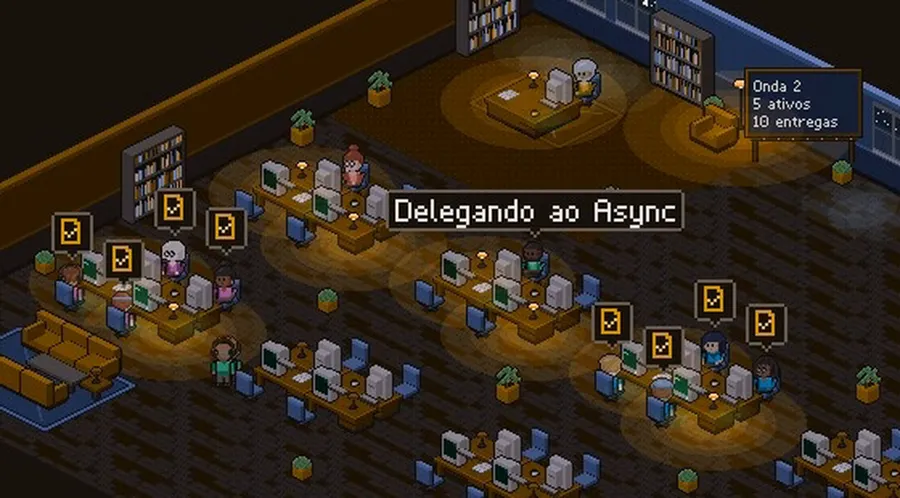
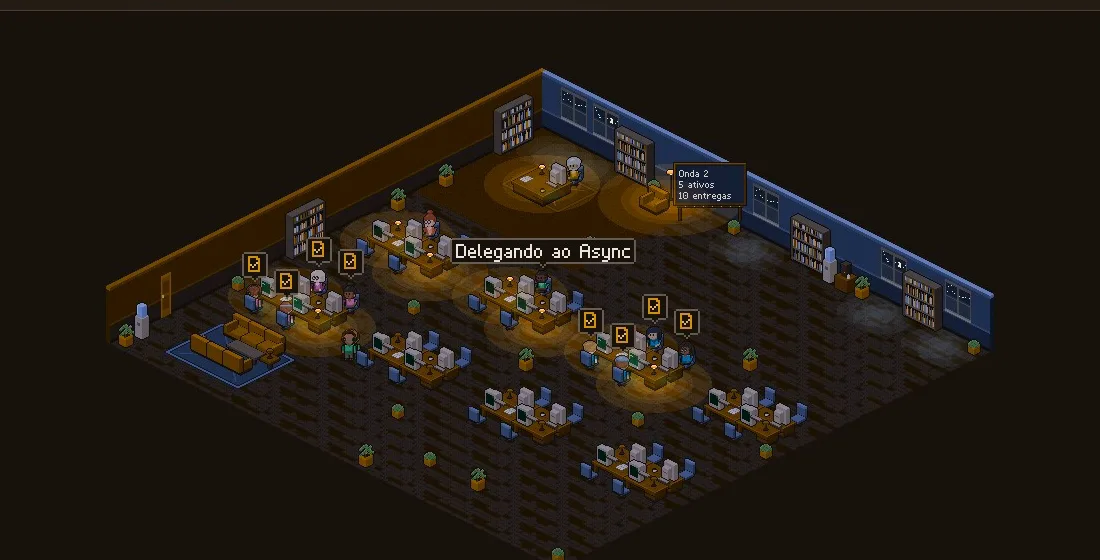
Add BitEnglish, drop repeated About photo, freelance availability
- New BitEnglish case study and card; Abajur becomes a wide featured card
- About section without the second photo panel, two-column layout
- "Available for" now lists freelance services (systems, AI, sites, automation)
- Mobile tech chips size to content instead of overflowing

diff --git a/app/globals.css b/app/globals.css
@@ -102,7 +102,7 @@ h1, h2, h3, h4 { font-weight: 700; }
 .topbar.scrolled { background: rgba(255, 255, 255, 0.9); backdrop-filter: blur(16px); color: var(--ink); box-shadow: 0 1px 0 var(--line); }
 .brand { display: inline-flex; align-items: center; gap: 10px; font-family: var(--font-display), sans-serif; font-weight: 800; font-size: 17px; letter-spacing: 0.01em; }
 .brand-chevron { font-size: 22px; opacity: 0.7; }
-.brand i, .about-brand i { width: 8px; height: 8px; border-radius: 50%; background: var(--purple-2); }
+.brand i { width: 8px; height: 8px; border-radius: 50%; background: var(--purple-2); }
 .topbar nav { display: flex; gap: clamp(24px, 3.4vw, 58px); }
 .topbar nav a { position: relative; font-size: 17px; font-weight: 500; opacity: 0.82; transition: opacity 0.2s; }
 .topbar nav a:hover, .topbar nav a.active { opacity: 1; }
@@ -171,23 +171,10 @@ h1, h2, h3, h4 { font-weight: 700; }
 .hero-tech svg { width: 34px; height: 34px; }
 
 /* ---------- About ---------- */
-.about { display: grid; grid-template-columns: 1fr 1fr; min-height: 100vh; background: var(--cream); }
-.about-visual { position: relative; overflow: hidden; background: var(--night); color: #fff; min-height: 760px; margin-right: -3vw; z-index: 1; clip-path: polygon(0 0, 100% 0, 92% 100%, 0 100%); }
-.about-visual > img { position: absolute; inset: 0; width: 100%; height: 100%; object-fit: cover; object-position: 62% 30%; filter: grayscale(1) brightness(0.72) contrast(1.12); }
-.about-visual:after { content: ""; position: absolute; inset: 0; background: linear-gradient(180deg, rgba(7, 6, 12, 0.55), transparent 30%, transparent 55%, rgba(7, 6, 12, 0.92)); }
-.about-visual > * { z-index: 1; }
-.about-brand { position: absolute; top: 56px; left: 7%; display: flex; align-items: center; gap: 10px; font-family: var(--font-display), sans-serif; font-weight: 800; font-size: 17px; }
-.hand-about-world { left: 13%; top: 11%; font-size: 26px; transform: rotate(-8deg); }
-.hand-about-transform { right: 7%; top: 21%; font-size: 22px; transform: rotate(-12deg); }
-.arrow-about { right: 33%; top: 25%; width: 58px; color: #fff; transform: scaleX(-1) rotate(-6deg); }
-.about-visual .books { left: -16px; bottom: 22%; }
-.about-visual .laptop { right: 13%; bottom: 21%; width: 33%; }
-.mug { position: absolute; left: 39%; bottom: 20%; width: 15%; aspect-ratio: 0.82; border-radius: 6px 6px 14px 14px; background: linear-gradient(90deg, #08080b, #1d1c22 45%, #0b0b0f); box-shadow: 0 18px 30px rgba(0, 0, 0, 0.6), inset 0 2px 0 rgba(255, 255, 255, 0.08); }
-.mug:before { content: ""; position: absolute; left: 0; right: 0; top: -6px; height: 12px; border-radius: 50%; background: #2a2930; border: 2px solid #111; }
-.mug-handle { position: absolute; left: -26%; top: 22%; width: 34%; height: 46%; border: 7px solid #121116; border-right: 0; border-radius: 40% 0 0 40%; }
-.mug-text { position: absolute; inset: 22% 8% 10%; display: flex; flex-direction: column; align-items: center; justify-content: center; font-family: var(--font-hand), cursive; font-size: clamp(12px, 1.05vw, 17px); line-height: 1.15; letter-spacing: 0.05em; color: #e8e6ee; text-align: center; }
-.about-visual .stat-strip { position: absolute; left: 4%; right: 12%; bottom: 4%; }
-.about-content { position: relative; background: var(--cream); padding: 56px 4vw 56px 6vw; }
+.about { background: var(--cream); }
+.about-content { display: grid; grid-template-columns: minmax(0, 1fr) minmax(0, 1fr); gap: 5vw; align-items: start; padding: 110px 5vw 100px; }
+.about-stack { padding-top: 64px; }
+.about-stack .stack-title { margin-top: 14px; }
 .about-content .display { font-size: clamp(38px, 3.4vw, 58px); }
 .value-cards { display: grid; grid-template-columns: repeat(3, minmax(0, 1fr)); gap: 16px; margin: 28px 0 26px; }
 .value-card { padding: 20px 18px; border-radius: 16px; background: #fff; border: 1px solid #efe9e0; box-shadow: var(--shadow); }
@@ -257,7 +244,15 @@ h1, h2, h3, h4 { font-weight: 700; }
 .filters button { padding: 12px 24px; border: 1px solid var(--line); border-radius: 999px; background: #fff; font-size: 15px; font-weight: 500; cursor: pointer; transition: 0.2s; }
 .filters button:hover { border-color: #c9c3e6; }
 .filters button.active { background: var(--ink); border-color: var(--ink); color: #fff; }
-.project-grid { display: grid; grid-template-columns: repeat(4, minmax(0, 1fr)); gap: 20px; }
+.project-grid { display: grid; grid-template-columns: repeat(3, minmax(0, 1fr)); gap: 20px; }
+.project-grid .card-abajur:first-child { grid-column: span 2; flex-direction: row; }
+.project-grid .card-abajur:first-child .project-art { flex: 0 0 54%; height: auto; min-height: 100%; }
+.project-grid .card-abajur:first-child .project-art > img { position: absolute; inset: 0; }
+.project-grid .card-abajur:first-child .project-body { padding: 30px 28px; justify-content: center; }
+.project-grid .card-abajur:first-child .project-actions { margin-top: 10px; }
+.project-grid .card-abajur:first-child .project-body h3 { font-size: 32px; }
+.card-bitenglish .project-art { background: #2a1f6b; }
+.card-bitenglish .project-number { padding: 4px 9px; border-radius: 8px; background: rgba(15, 14, 22, 0.75); text-shadow: none; font-size: 15px; }
 .project-card { display: flex; flex-direction: column; border: 1px solid var(--line); border-radius: var(--radius); background: #fff; overflow: hidden; box-shadow: var(--shadow); transition: transform 0.25s, box-shadow 0.25s; }
 .project-card:hover { transform: translateY(-6px); box-shadow: 0 24px 50px rgba(27, 20, 70, 0.1); }
 .project-art { position: relative; height: 230px; overflow: hidden; background: #111; }
@@ -398,6 +393,7 @@ footer a:hover { color: var(--purple); }
 @media (max-width: 1440px) {
   .project-grid { grid-template-columns: repeat(2, minmax(0, 1fr)); }
   .project-art { height: 260px; }
+  .project-grid .card-abajur:first-child { grid-column: 1 / -1; }
   .delivered-grid { grid-template-columns: repeat(2, minmax(0, 1fr)); }
 }
 @media (max-width: 1280px) {
@@ -421,15 +417,13 @@ footer a:hover { color: var(--purple); }
   .menu-button { display: grid; }
   .available { display: none; }
   .hero-deco > :not(.hand-ideas):not(.arrow-ideas) { display: none; }
-  .about-visual .laptop, .mug { display: none; }
-  .hand-ideas { left: auto; right: 6%; top: 16%; font-size: 24px; }
+    .hand-ideas { left: auto; right: 6%; top: 16%; font-size: 24px; }
   .arrow-ideas { display: none; }
   .hero-photo { right: -6%; width: 70%; }
   .hero-inner { max-width: none; padding-right: 5vw; }
-  .about { grid-template-columns: 1fr; }
-  .about-visual { margin-right: 0; clip-path: none; }
-  .about-visual { min-height: 720px; }
-  .career { grid-template-columns: 1fr; gap: 60px; }
+  .about-content { grid-template-columns: 1fr; gap: 20px; }
+  .about-stack { padding-top: 24px; border-top: 1px solid #e6dfd4; }
+    .career { grid-template-columns: 1fr; gap: 60px; }
   .projects-head { flex-direction: column; align-items: flex-start; }
   .projects-aside { align-items: flex-start; }
   .projects-hand { display: none; }
@@ -457,14 +451,8 @@ footer a:hover { color: var(--purple); }
   .stat-strip.dark .stat { padding: 0 20px; }
   .stat-strip.dark .stat:nth-child(3) { border-left: 0; }
   .hero-tech { gap: 18px 22px; }
-  .about-visual { min-height: 780px; }
-  .about-visual > img { object-position: 60% 12%; }
-  .about-brand { top: 32px; left: 20px; }
-  .hand-about-world { left: 20px; top: 84px; font-size: 20px; }
-  .stack-title i { display: none; }
-  .about-visual .books, .hand-about-transform, .arrow-about { display: none; }
-  .about-visual .stat-strip { position: absolute; }
-  .about-content, .career, .projects, .process, .contact { padding-left: 20px; padding-right: 20px; }
+          .stack-title i { display: none; }
+      .about-content, .career, .projects, .process, .contact { padding-left: 20px; padding-right: 20px; }
   .career, .projects, .process, .contact { padding-top: 90px; }
   .tech-chips { grid-template-columns: repeat(2, minmax(0, 1fr)); }
   .timeline:before { left: 7px; }
@@ -551,8 +539,8 @@ footer a:hover { color: var(--purple); }
   .stat-strip.light .stat-icon { grid-row: span 2; width: 40px; height: 40px; margin: 0; }
   .stat-strip.light strong { font-size: 26px; }
   .stat-strip.light .stat-label { font-size: 12.5px; }
-  .tech-chips { grid-template-columns: repeat(3, minmax(0, 1fr)); gap: 7px; }
-  .tech-chips li { padding: 9px 8px; gap: 7px; font-size: 12px; }
+  .tech-chips { display: flex; flex-wrap: wrap; gap: 8px; }
+  .tech-chips li { padding: 9px 12px; gap: 7px; font-size: 13px; }
   .tech-chips svg { width: 17px; height: 17px; }
   .career { gap: 44px; }
   .job-card { grid-template-columns: 52px minmax(0, 1fr); gap: 14px; }
@@ -566,6 +554,11 @@ footer a:hover { color: var(--purple); }
   .delivered-card strong { font-size: 34px; }
   .filters { -webkit-mask-image: linear-gradient(90deg, #000 85%, transparent); mask-image: linear-gradient(90deg, #000 85%, transparent); }
   .project-grid { gap: 16px; }
+  .project-grid .card-abajur:first-child { grid-column: auto; flex-direction: column; }
+  .project-grid .card-abajur:first-child .project-art { flex: none; height: 210px; min-height: 0; }
+  .project-grid .card-abajur:first-child .project-art > img { position: static; }
+  .project-grid .card-abajur:first-child .project-body { padding: 18px; }
+  .project-grid .card-abajur:first-child .project-body h3 { font-size: 24px; }
   .project-art { height: 210px; }
   .project-body { padding: 18px; }
   .project-body h3 { font-size: 24px; }

diff --git a/app/content.ts b/app/content.ts
@@ -289,6 +289,53 @@ export const caseStudies: Record<Language, CaseStudy[]> = {
         "Abordagem 1:1 pelo WhatsApp, sem disparo em massa.",
       ],
     },
+    {
+      id: "bitenglish",
+      number: "05",
+      title: "BitEnglish",
+      owner: "PROJETO PRÓPRIO",
+      category: "EDTECH · PWA",
+      description: "PWA gratuito e mobile-first para adultos aprenderem vocabulário de inglês com mini-jogos em pixel art, XP, sequência de dias, rankings e chat entre alunos.",
+      result: "12 mini-jogos em pixel art · ~600 palavras do A1 ao B1 · ranking de turmas",
+      tags: ["Next.js", "Supabase", "PostgreSQL", "PWA", "Tailwind CSS"],
+      modalTitle: "BitEnglish — inglês um bit por dia",
+      modalCategory: "05 / PROJETO PRÓPRIO / EDTECH",
+      summary: "Um PWA gratuito para aprender vocabulário de inglês \"um bit por dia\": mini-jogos curtos em pixel art, XP, sequência de dias, conquistas, ranking de pessoas e turmas e um chat em inglês entre os alunos.",
+      media: {
+        kind: "image",
+        src: "/cases/bitenglish-telas.webp",
+        alt: "Telas do BitEnglish: início, jogo da memória, ranking de turmas e gestão de turmas",
+        caption: "Início, jogo da memória, ranking de turmas e gestão de turmas, com a identidade em pixel art do próprio app.",
+      },
+      challenge: [
+        "Apps de vocabulário parecem lição de casa, e a maioria dos adultos desiste nas primeiras semanas.",
+        "Professores não tinham um jeito simples de juntar alunos em turmas e acompanhar o progresso.",
+        "Ferramentas com jogos e ranking costumam ser pagas ou cheias de anúncios.",
+      ],
+      solution: "Construí um único app Next.js full-stack hospedado na Vercel, com o Supabase cuidando de banco, autenticação e tempo real. Cada etapa da trilha do A1 ao B1 é jogada por mini-jogos com as palavras dela, e a revisão espaçada traz de volta as que o aluno errou. Os alunos entram em turmas, disputam o ranking da semana e praticam num chat moderado. O dono administra pessoas, turmas, conteúdo e moderação numa área admin dentro do próprio app. Toda a identidade visual (logo, mascote, ícones, conquistas e animações) foi desenhada em pixel art para o projeto.",
+      stack: [
+        ["App", "Next.js (App Router) · React · TypeScript · Tailwind CSS · PWA"],
+        ["Dados e auth", "Supabase · PostgreSQL com RLS · Auth · Realtime"],
+        ["Conteúdo e IA", "~600 palavras do A1 ao B1 geradas com IA · tutor com Claude atrás de flag"],
+        ["Qualidade e infra", "Vercel · Vitest · Playwright · stack de custo zero"],
+      ],
+      modules: [
+        ["12 mini-jogos", "Memória, caça-palavras, forca, palavras cruzadas e mais 8, todos com as palavras de cada etapa."],
+        ["Trilha e revisão", "Níveis divididos em etapas, meta diária e revisão espaçada das palavras erradas."],
+        ["Gamificação", "XP, sequência de dias, conquistas e ranking semanal de pessoas e turmas."],
+        ["Turmas e admin", "Área do professor para criar turmas, acompanhar alunos, gerenciar conteúdo e moderar o chat."],
+      ],
+      role: [
+        "Produto, arquitetura e desenvolvimento full stack.",
+        "Modelagem com segurança por linha (RLS) no Supabase.",
+        "Identidade em pixel art: logo, mascote, 64 ícones, conquistas e emblemas de turma.",
+      ],
+      impact: [
+        "Aprender vira jogo, em sessões de poucos minutos por dia.",
+        "As turmas competem entre si, o que faz os alunos voltarem.",
+        "Gratuito para os alunos, rodando numa infraestrutura de custo zero.",
+      ],
+    },
   ],
   en: [
     {
@@ -472,6 +519,53 @@ export const caseStudies: Record<Language, CaseStudy[]> = {
         "A list of scored leads with valid contacts in minutes instead of hours.",
         "First message and proposal written by AI and reviewed before sending.",
         "One-to-one outreach on WhatsApp, no mass messaging.",
+      ],
+    },
+    {
+      id: "bitenglish",
+      number: "05",
+      title: "BitEnglish",
+      owner: "PERSONAL PROJECT",
+      category: "EDTECH · PWA",
+      description: "Free, mobile-first PWA for Brazilian adults to learn English vocabulary through pixel art mini-games, with XP, streaks, rankings and a student chat.",
+      result: "12 pixel art mini-games · ~600 words A1→B1 · class rankings",
+      tags: ["Next.js", "Supabase", "PostgreSQL", "PWA", "Tailwind CSS"],
+      modalTitle: "BitEnglish — English one bit a day",
+      modalCategory: "05 / PERSONAL PROJECT / EDTECH",
+      summary: "A free PWA to learn English vocabulary \"one bit a day\": short pixel art mini-games, XP, streaks, achievements, rankings for students and classes, and a chat in English between learners.",
+      media: {
+        kind: "image",
+        src: "/cases/bitenglish-telas.webp",
+        alt: "BitEnglish screens: home, memory game, class ranking and class admin",
+        caption: "Home, memory game, class ranking and class admin, all in the app's own pixel art identity.",
+      },
+      challenge: [
+        "Vocabulary apps feel like homework, and most adult learners quit in the first weeks.",
+        "Teachers had no simple way to group students into classes and follow their progress.",
+        "Learning tools with games and rankings are usually paid or full of ads.",
+      ],
+      solution: "I built a single full-stack Next.js app hosted on Vercel with Supabase for the database, authentication and realtime. Each stage of the A1→B1 track is played through mini-games about its words, and spaced review brings back the ones the learner got wrong. Students join classes, compete in weekly rankings and practice in a moderated chat. The owner manages people, classes, content and moderation in an admin area inside the same app. The whole visual identity — logo, mascot, icons, achievements and animations — was designed in pixel art for the project.",
+      stack: [
+        ["App", "Next.js (App Router) · React · TypeScript · Tailwind CSS · PWA"],
+        ["Data & auth", "Supabase · PostgreSQL with RLS · Auth · Realtime"],
+        ["Content & AI", "~600 words A1→B1 generated with AI · Claude tutor behind a feature flag"],
+        ["Quality & infra", "Vercel · Vitest · Playwright · zero-cost stack"],
+      ],
+      modules: [
+        ["12 mini-games", "Memory, word search, hangman, crossword and 8 more, all built on each stage's words."],
+        ["Track and review", "Levels split into stages, daily goal and spaced review of missed words."],
+        ["Gamification", "XP, daily streak, achievements and weekly rankings for people and classes."],
+        ["Classes and admin", "Teacher area to create classes, follow students, manage content and moderate the chat."],
+      ],
+      role: [
+        "Product, architecture and full stack development.",
+        "Data model with row-level security in Supabase.",
+        "Pixel art identity: logo, mascot, 64 icons, achievements and class badges.",
+      ],
+      impact: [
+        "Learning that feels like a game, in sessions of a few minutes a day.",
+        "Classes compete with each other, which keeps students coming back.",
+        "Free for learners, running on a zero-cost infrastructure.",
       ],
     },
   ],

diff --git a/app/copy.ts b/app/copy.ts
@@ -38,7 +38,6 @@ export const text = {
     techIUse: "TECNOLOGIAS QUE USO",
     handIdeas: ["IDEIAS", "CÓDIGO", "IMPACTO", "PESSOAS"],
     handWorld: ["TECNOLOGIA", "PARA UM", "MUNDO", "MELHOR."],
-    handTransform: ["TRANSFORMANDO", "IDEIAS EM", "IMPACTO REAL."],
     metricLabel: "Campanhas ativas",
     metricValue: "+25.000",
     metricUnit: "acessos por dia",
@@ -115,13 +114,13 @@ export const text = {
     send: "Enviar mensagem",
     sending: "Enviando...",
     privacy: "Seus dados estão seguros. Não compartilho suas informações.",
-    availableFor: "DISPONÍVEL PARA",
-    availableTitle: ["Projetos que geram", "impacto positivo."],
+    availableFor: "DISPONÍVEL PARA FREELANCE",
+    availableTitle: ["Projetos sob medida", "para o seu negócio."],
     availability: [
-      { icon: "heart", title: "ONGs e causas sociais", text: "Tecnologia para arrecadação, automação e gestão." },
-      { icon: "layers", title: "Produtos digitais", text: "Sites, sistemas e aplicativos sob medida." },
-      { icon: "bolt", title: "Consultorias e parcerias", text: "Arquitetura, IA e performance para projetos existentes." },
-      { icon: "users", title: "Oportunidades na LUSA", text: "Sempre aberto a novos desafios no time." },
+      { icon: "server", title: "Sistemas web", text: "Painéis, APIs e plataformas sob medida." },
+      { icon: "brain", title: "IA aplicada", text: "Agentes, chatbots e integrações com LLMs." },
+      { icon: "globe", title: "Sites e páginas", text: "Rápidos, responsivos e feitos para converter." },
+      { icon: "bolt", title: "Automações", text: "Integrações e fluxos que eliminam trabalho manual." },
     ],
     backToTop: "Voltar ao topo",
   },
@@ -135,7 +134,6 @@ export const text = {
     techIUse: "TECHNOLOGIES I USE",
     handIdeas: ["IDEAS", "CODE", "IMPACT", "PEOPLE"],
     handWorld: ["TECHNOLOGY", "FOR A", "BETTER", "WORLD."],
-    handTransform: ["TURNING", "IDEAS INTO", "REAL IMPACT."],
     metricLabel: "Active campaigns",
     metricValue: "+25,000",
     metricUnit: "visits per day",
@@ -212,19 +210,19 @@ export const text = {
     send: "Send message",
     sending: "Sending...",
     privacy: "Your data is safe. I don't share your information.",
-    availableFor: "AVAILABLE FOR",
-    availableTitle: ["Projects that create", "positive impact."],
+    availableFor: "AVAILABLE FOR FREELANCE",
+    availableTitle: ["Custom projects", "for your business."],
     availability: [
-      { icon: "heart", title: "NGOs and social causes", text: "Technology for fundraising, automation and management." },
-      { icon: "layers", title: "Digital products", text: "Custom websites, systems and apps." },
-      { icon: "bolt", title: "Consulting and partnerships", text: "Architecture, AI and performance for existing projects." },
-      { icon: "users", title: "Opportunities at LUSA", text: "Always open to new challenges on the team." },
+      { icon: "server", title: "Web systems", text: "Custom dashboards, APIs and platforms." },
+      { icon: "brain", title: "Applied AI", text: "Agents, chatbots and LLM integrations." },
+      { icon: "globe", title: "Websites and pages", text: "Fast, responsive and built to convert." },
+      { icon: "bolt", title: "Automation", text: "Integrations and workflows that remove manual work." },
     ],
     backToTop: "Back to top",
   },
 } as const;
 
-export type CardVisual = "abajur" | "lusa" | "icharity" | "hub";
+export type CardVisual = "abajur" | "lusa" | "icharity" | "hub" | "bitenglish";
 
 export const projectCards: Record<Language, { id: CardVisual; badge: string; points: string[]; cta: string; filters: string[] }[]> = {
   pt: [
@@ -232,11 +230,13 @@ export const projectCards: Record<Language, { id: CardVisual; badge: string; poi
     { id: "lusa", badge: "LUSA BRASIL", points: ["Em produção nas lojas", "Pix e Pix Automático", "Failover entre gateways"], cta: "Ver estudo de caso", filters: ["lusa", "sistemas"] },
     { id: "icharity", badge: "LUSA BRASIL", points: ["100% para a ONG", "Conciliação automática", "~400 testes"], cta: "Ver estudo de caso", filters: ["lusa", "sistemas"] },
     { id: "hub", badge: "PROJETO PRÓPRIO", points: ["Lista de leads pontuados em minutos", "Abre com dois cliques", "100% automatizado"], cta: "Ver projeto completo", filters: ["proprios", "ia"] },
+    { id: "bitenglish", badge: "PROJETO PRÓPRIO", points: ["12 mini-jogos em pixel art", "~600 palavras do A1 ao B1", "Ranking de alunos e turmas"], cta: "Ver projeto completo", filters: ["proprios", "sistemas", "web"] },
   ],
   en: [
     { id: "abajur", badge: "PERSONAL PROJECT", points: ["~144 fps", "Thousands of tests", "Windows installer"], cta: "View full project", filters: ["proprios", "ia", "sistemas"] },
     { id: "lusa", badge: "LUSA BRASIL", points: ["Live on the app stores", "Pix and recurring Pix", "Gateway failover"], cta: "View case study", filters: ["lusa", "sistemas"] },
     { id: "icharity", badge: "LUSA BRASIL", points: ["100% to the NGO", "Automatic reconciliation", "~400 tests"], cta: "View case study", filters: ["lusa", "sistemas"] },
     { id: "hub", badge: "PERSONAL PROJECT", points: ["Scored lead list in minutes", "Opens with two clicks", "Fully automated"], cta: "View full project", filters: ["proprios", "ia"] },
+    { id: "bitenglish", badge: "PERSONAL PROJECT", points: ["12 pixel art mini-games", "~600 words from A1 to B1", "Student and class rankings"], cta: "View full project", filters: ["proprios", "sistemas", "web"] },
   ],
 };

diff --git a/app/page.tsx b/app/page.tsx
@@ -345,22 +345,8 @@ export default function Home() {
         </section>
 
         <section className="about" id="sobre">
-          <div className="about-visual">
-            {/* eslint-disable-next-line @next/next/no-img-element */}
-            <img src="/images/igor.webp" alt={isEn ? "Igor de Souza Cardoso drinking coffee by a window" : "Igor de Souza Cardoso tomando café perto da janela"} loading="lazy" />
-            <span className="about-brand">DEV. IGOR CARDOSO <i /></span>
-            <Hand lines={t.handWorld} className="hand-about-world" />
-            <Hand lines={t.handTransform} className="hand-about-transform" />
-            <CurvedArrow className="arrow-about" />
-            <Books titles={t.books} />
-            <Laptop />
-            <div className="mug" aria-hidden="true">
-              <span className="mug-text">{t.handIdeas.map((line) => <span key={line}>{line}</span>)}</span>
-              <i className="mug-handle" />
-            </div>
-            <StatStrip items={siteStats} tone="dark" />
-          </div>
           <div className="about-content">
+            <div className="about-main">
             <Pill index="02" label={t.aboutIndex} />
             <h2 className="display">{t.aboutTitle[0]}<br /><em>{t.aboutTitle[1]}</em></h2>
             <p className="lead">{t.aboutLead.map(([chunk, bold]) => bold ? <strong key={chunk}>{chunk}</strong> : <span key={chunk}>{chunk}</span>)}</p>
@@ -374,7 +360,8 @@ export default function Home() {
                 </article>
               ))}
             </div>
-            <hr />
+            </div>
+            <div className="about-stack">
             <div className="stack-head">
               <div>
                 <p className="mini-label"><i /> {t.whatIDo}</p>
@@ -396,6 +383,7 @@ export default function Home() {
             <div className="also-work">
               <span className="also-work-label">{t.alsoWork}</span>
               {alsoWorkWith.map((name) => <span key={name} className="also-work-item"><BrandIcon name={name} />{name === "Meta Pixel e CAPI" && isEn ? "Meta Pixel & CAPI" : name}</span>)}
+            </div>
             </div>
           </div>
         </section>
